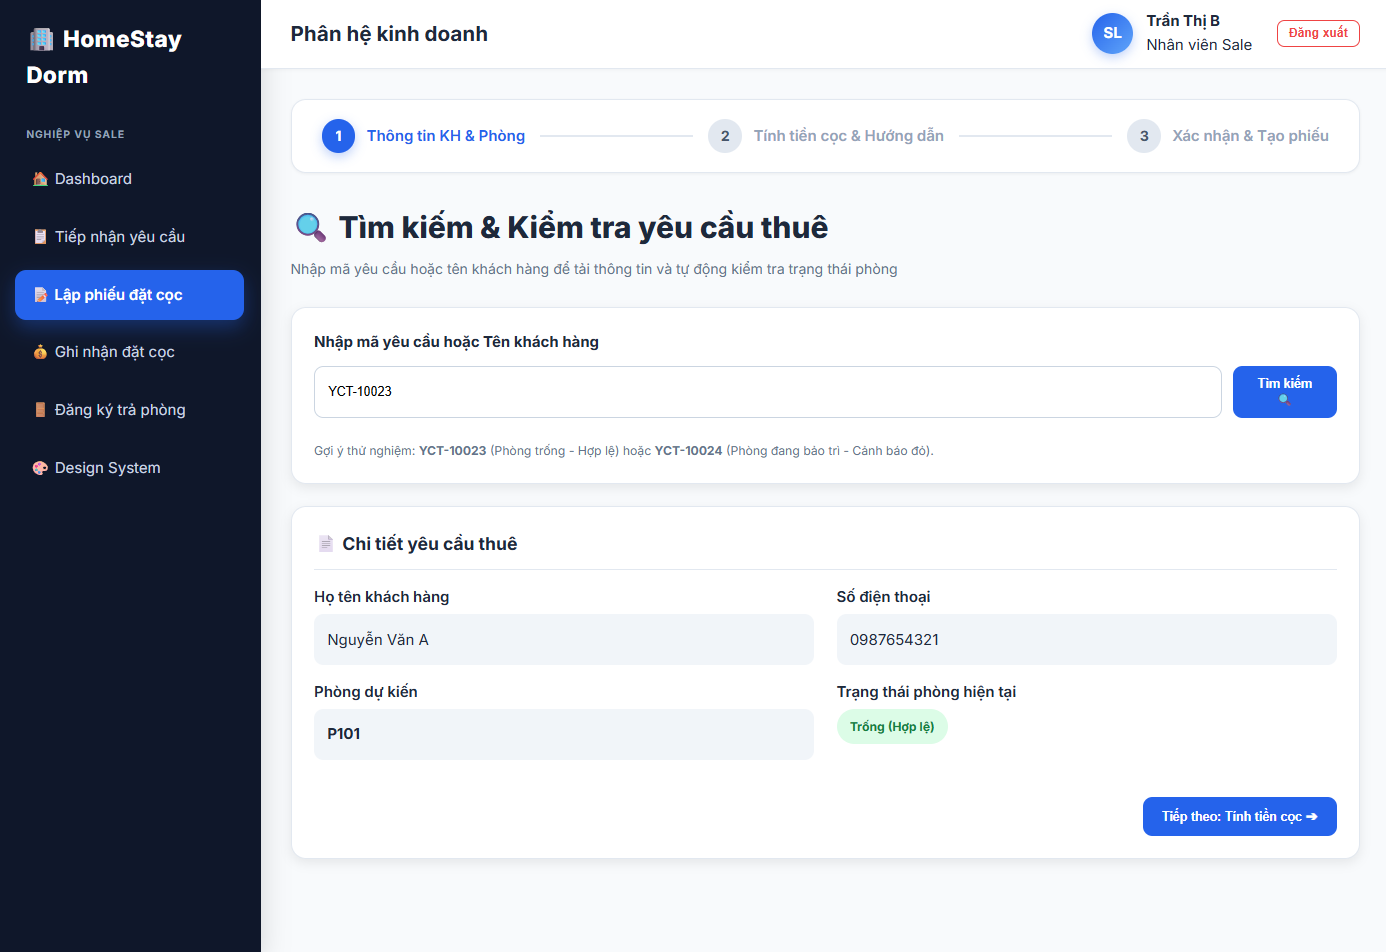
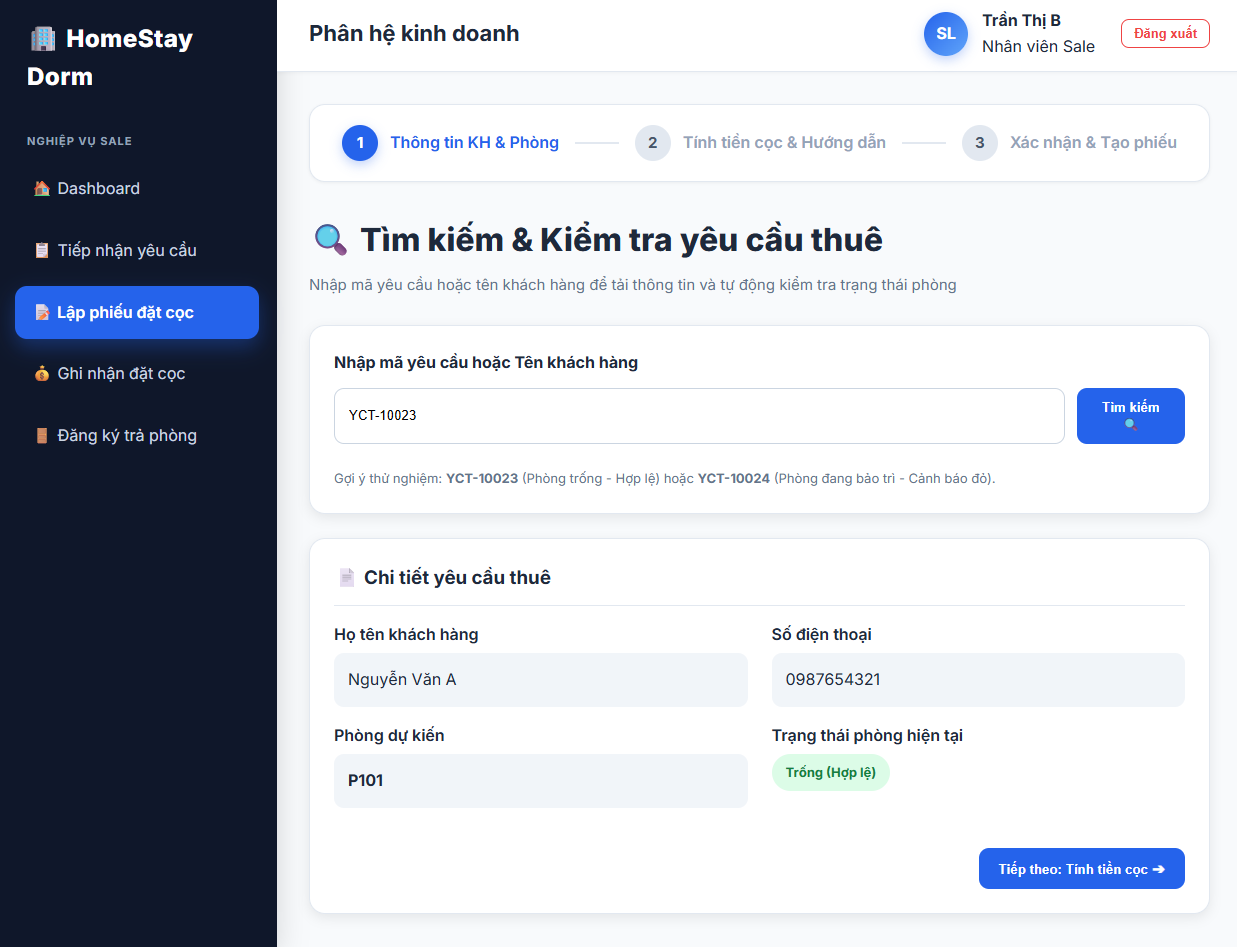
Bỏ system design khỏi thanh bên

diff --git a/Part_2/ghi-nhan-dat-coc.html b/Part_2/ghi-nhan-dat-coc.html
@@ -169,11 +169,7 @@
                         🚪 Đăng ký trả phòng
                     </a>
                 </li>
-                <li>
-                    <a href="design-system.html">
-                        🎨 Design System
-                    </a>
-                </li>
+
             </ul>
         </aside>
 

diff --git a/Part_2/lap-phieu-dat-coc.html b/Part_2/lap-phieu-dat-coc.html
@@ -203,11 +203,7 @@
                         🚪 Đăng ký trả phòng
                     </a>
                 </li>
-                <li>
-                    <a href="design-system.html">
-                        🎨 Design System
-                    </a>
-                </li>
+
             </ul>
         </aside>
 

diff --git a/Part_2/tiep-nhan-yeu-cau.html b/Part_2/tiep-nhan-yeu-cau.html
@@ -333,11 +333,7 @@
                         🚪 Đăng ký trả phòng
                     </a>
                 </li>
-                <li>
-                    <a href="design-system.html">
-                        🎨 Design System
-                    </a>
-                </li>
+
             </ul>
         </aside>
 

diff --git a/pages/ghi-nhan-dat-coc.html b/pages/ghi-nhan-dat-coc.html
@@ -169,11 +169,7 @@
                         🚪 Đăng ký trả phòng
                     </a>
                 </li>
-                <li>
-                    <a href="design-system.html">
-                        🎨 Design System
-                    </a>
-                </li>
+
             </ul>
         </aside>
 

diff --git a/pages/lap-phieu-dat-coc.html b/pages/lap-phieu-dat-coc.html
@@ -203,11 +203,7 @@
                         🚪 Đăng ký trả phòng
                     </a>
                 </li>
-                <li>
-                    <a href="design-system.html">
-                        🎨 Design System
-                    </a>
-                </li>
+
             </ul>
         </aside>
 

diff --git a/pages/tiep-nhan-yeu-cau.html b/pages/tiep-nhan-yeu-cau.html
@@ -333,11 +333,7 @@
                         🚪 Đăng ký trả phòng
                     </a>
                 </li>
-                <li>
-                    <a href="design-system.html">
-                        🎨 Design System
-                    </a>
-                </li>
+
             </ul>
         </aside>
 
